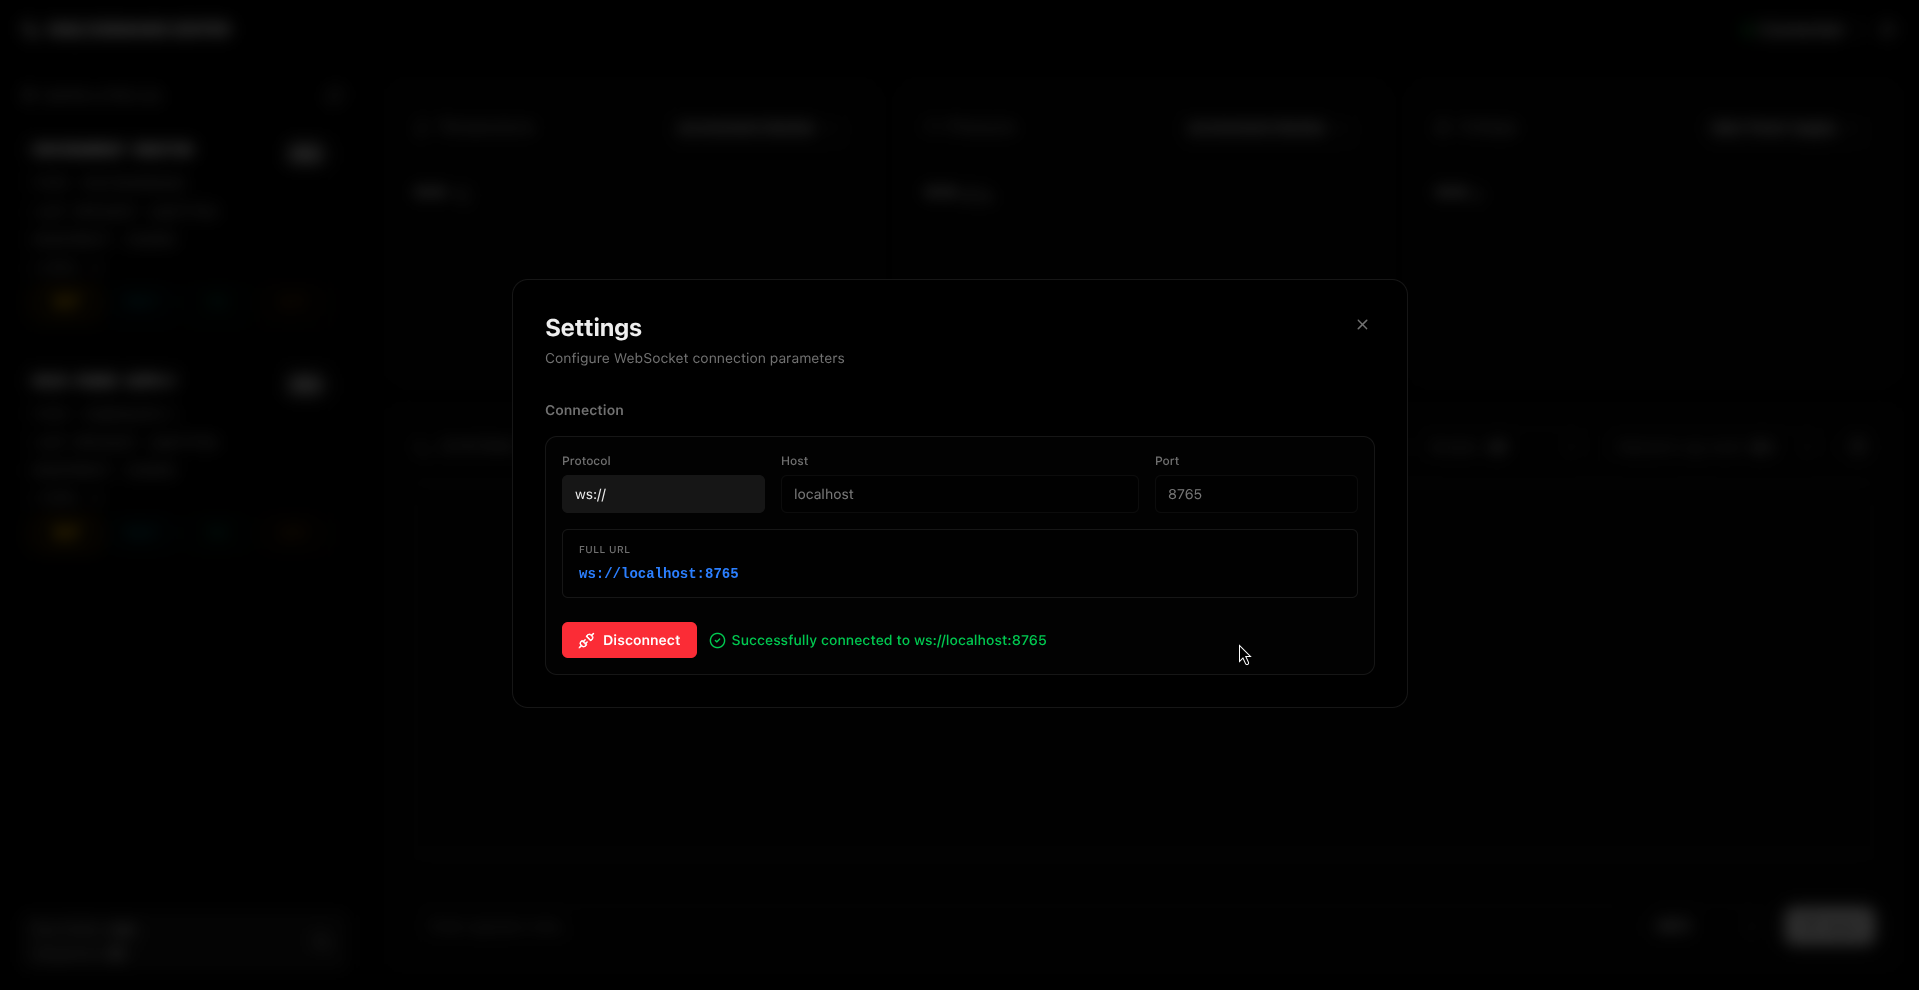
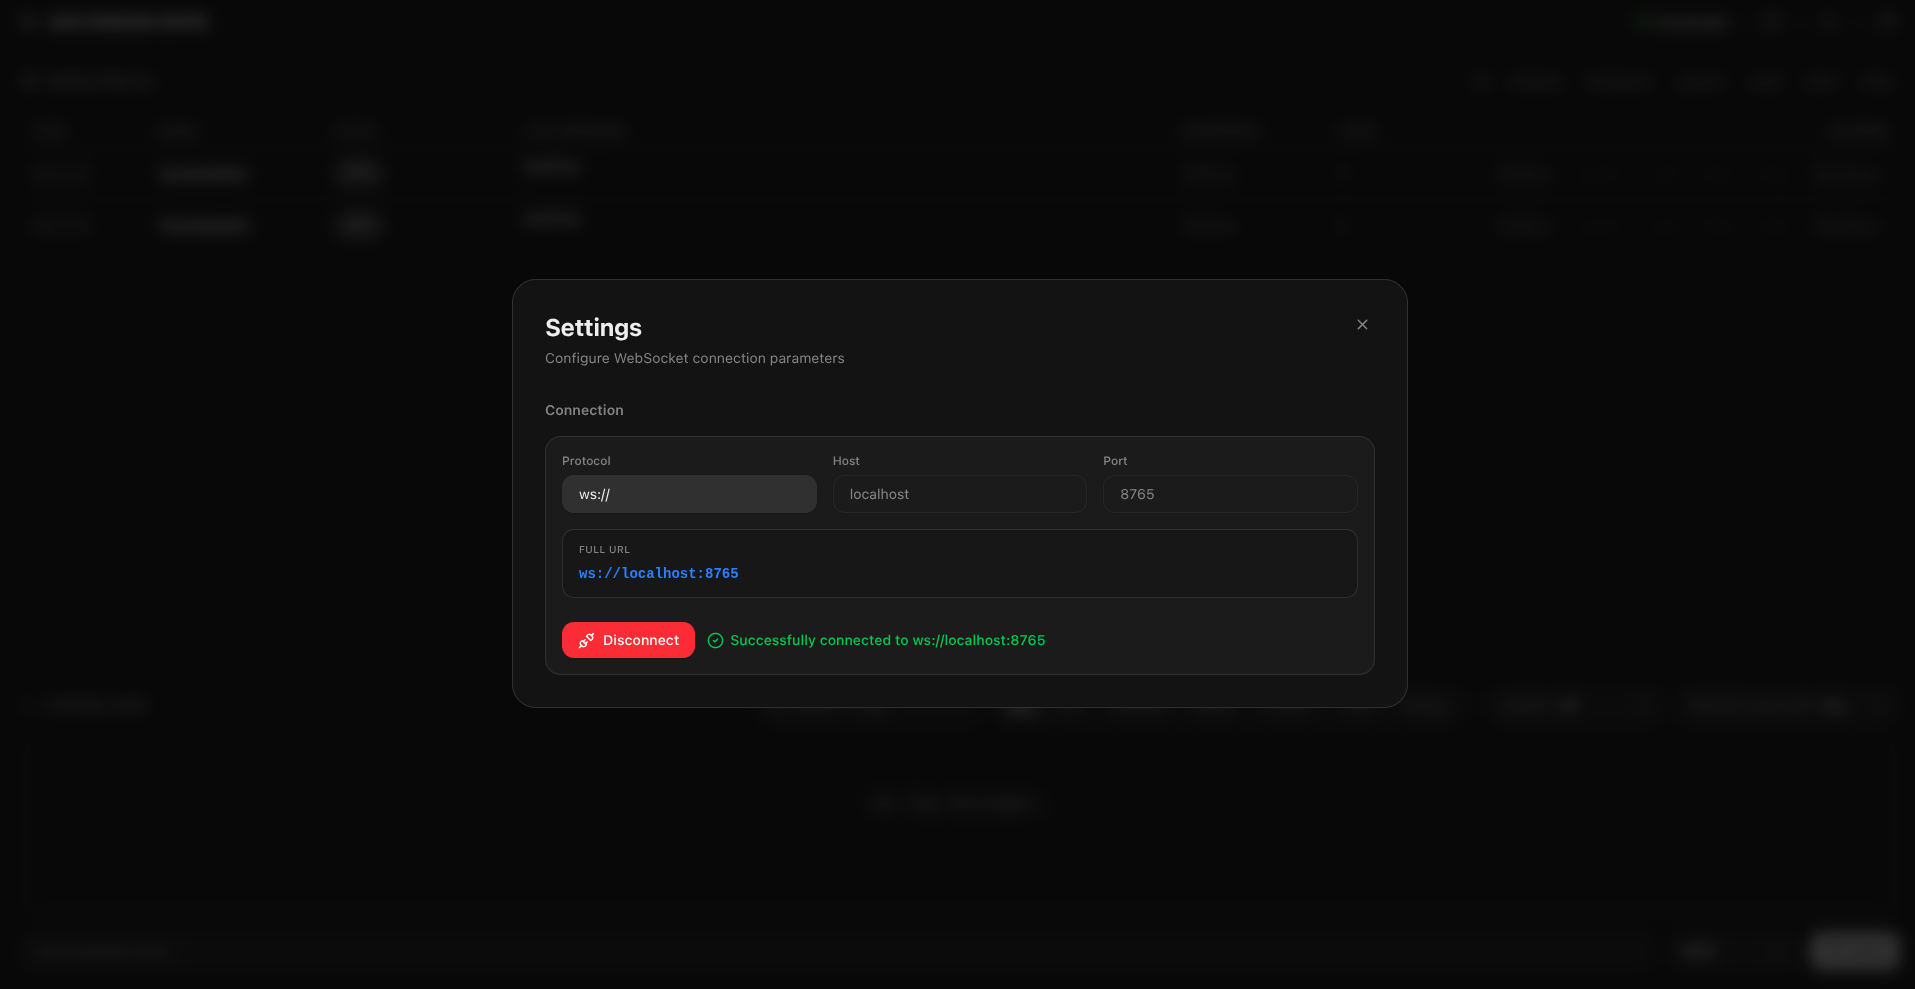
docs: update README and images

Changed region(s): [[0.2773, 0.3943, 0.7394, 0.6977], [0.9243, 0.91, 1.0, 1.0], [0.2773, 0.3033, 0.4313, 0.364]]

diff --git a/README.md b/README.md
@@ -7,14 +7,14 @@ DAQ Command Center is a web-based control interface for data acquisition (DAQ) s
 The main design idea is to help operators understand complex system states quickly and clearly at a glance. The frontend is built with Svelte 5, focusing on performance and simplicity. On the backend, a Python and WebSocket-based asynchronous server provides continuous data flow.
 
 <p align="center">
-<img src="./images/app_disconnected.png" alt="Dashboard">
+<img src="./images/empty-dashboard.png" alt="Dashboard">
 </p>
 
 ## Core Features
 
 ### Connection and Interface
 
-When the application starts, the user sees the main control panel. On the left side, there is a list of devices. On the right side, there are data graphs and system logs.
+When the application starts, the user sees the main control panel. On the top, there is a satellite table. On the bottom, there are system logs.
 
 To start data flow, the user enters host and port information from the settings menu in the top-right corner and sends a WebSocket connection request. If the connection fails, the system shows an error message.
 
@@ -28,82 +28,169 @@ If the network parameters are correct and the server is reachable, the interface
 <img src="./images/settings-popup/conn_success.png" alt="Connection Success">
 </p>
 
+### Theme
+
+The application supports both dark and light themes. The user can switch between themes using the toggle button in the header. The dark theme uses a deep, low-contrast color palette designed for extended monitoring sessions. The light theme provides a clean, high-contrast alternative for well-lit environments.
+
+Each FSM state has its own distinct color in both themes, making it easy to identify system status at a glance.
+
+<p align="center">
+<img src="./images/gif/theme.gif" alt="Dark & Light Theme">
+</p>
+
+### Customizable Layout
+
+The operator can choose between two layout modes using the split screen button in the header:
+
+- **Horizontal split (default):** Satellite table on top, system logs on the bottom.
+- **Vertical split:** Satellite table on the left, system logs on the right.
+
+This allows operators to adjust the interface based on their screen size, workflow, or personal preference.
+
+<p align="center">
+<img src="./images/gif/layout.gif" alt="Change Layout">
+</p>
+
 ### FSM (Finite State Machine) and Device Management
 
 The safety of system devices is not based on random external rules. Instead, each component follows its own Finite State Machine (FSM).
 
 After connecting to the server, the system loads the list of devices on the network and their current FSM states.
 
-<p align="center">
-<img src="./images/satellites/satellites.png" alt="Satellite List">
-</p>
-
 This structure is integrated in Python using the `statemachine` library. State transitions are strictly controlled.
 
-To manage devices safely, the required FSM steps must be followed.
+The FSM defines six main states:
+
+| State   | Description                                  |
+| ------- | -------------------------------------------- |
+| `NEW`   | Initial state when a satellite first appears |
+| `INIT`  | Initialized and ready for configuration      |
+| `ORBIT` | Configured and ready for data acquisition    |
+| `RUN`   | Actively acquiring data                      |
+| `SAFE`  | Safe mode, triggered by rule violations      |
+| `ERROR` | Error state, triggered by hardware failures  |
+
+To add realism and reflect real-world hardware behavior, six **transitional states** are introduced between main states. When a command is issued, the satellite first enters a transitional state (e.g. `INITIALIZING`, `LAUNCHING`) before reaching its target state. During this transition, a spinning indicator is displayed on the state badge and all commands are disabled until the transition completes. Each transition takes 1.5 seconds.
+
+| Transitional State | From           | To      |
+| ------------------ | -------------- | ------- |
+| `INITIALIZING`     | `NEW` / `INIT` | `INIT`  |
+| `LAUNCHING`        | `INIT`         | `ORBIT` |
+| `LANDING`          | `ORBIT`        | `INIT`  |
+| `RECONFIGURING`    | `ORBIT`        | `ORBIT` |
+| `STARTING`         | `ORBIT`        | `RUN`   |
+| `STOPPING`         | `RUN`          | `ORBIT` |
+
+Satellites in `SAFE` or `ERROR` states can be recovered back to the `INIT` state using the `Initialize` command.
 
 <p align="center">
 <img src="./images/fsm.png" alt="FSM Architecture">
 </p>
 
-For example, a device in the `INIT` state cannot directly move to the `RUN` state. It must first go to the `ORBIT` state.
+### Satellite Table
 
-Invalid transitions are automatically disabled in the interface. Operators can manage state changes directly from the UI.
+Satellites are displayed in a structured table with the following columns:
+
+| Column           | Description                              |
+| ---------------- | ---------------------------------------- |
+| **Type**         | Hardware type of the satellite           |
+| **Name**         | Unique identifier                        |
+| **State**        | Current FSM state with color-coded badge |
+| **Last Message** | Most recent message with timestamp       |
+| **Heartbeat**    | Heartbeat interval (e.g. `3000ms`)       |
+| **Lives**        | Remaining lives counter                  |
+| **Actions**      | Available command buttons                |
+
+Horizontal layout:
+
+<p align="center">
+<img src="./images/satellites/horizontal.png" alt="Satellite Table Horizontal">
+</p>
+Vertical layout:
+
+<p align="center">
+<img src="./images/satellites/vertical.png" alt="Satellite Table Vertical">
+</p>
+
+### Satellite Commands
+
+Instead of directly selecting a target state (e.g. `INIT`, `ORBIT`, `RUN`), operators issue **action commands** that describe the operation to be performed. The available commands are:
+
+| Command        | Transition                                     |
+| -------------- | ---------------------------------------------- |
+| **Initialize** | `NEW` / `SAFE` / `ERROR` → `INIT`              |
+| **Launch**     | `INIT` → `ORBIT`                               |
+| **Land**       | `ORBIT` → `INIT`                               |
+| **Start**      | `ORBIT` → `RUN`                                |
+| **Stop**       | `RUN` → `ORBIT`                                |
+| **Shutdown**   | Removes the satellite from the system entirely |
+
+Invalid commands are automatically disabled based on the satellite's current state. During transitional states, all commands are disabled.
 
 <p align="center">
 <img src="./images/gif/change_state.gif" alt="State Change">
 </p>
 
-### Real-Time Data Visualization
+#### Global Control
 
-Sensors send data only when the system is in the `RUN` state. This ensures that data flow is synchronized with system state.
-
-Incoming data is visualized using Apache ECharts with high performance.
+A set of quick action buttons is provided above the satellite table, labeled **"All:"**. These buttons send a command to every satellite simultaneously. This allows operators to initialize, launch, start, stop, land, or shut down all devices with a single click.
 
 <p align="center">
-<img src="./images/gif/graphs.gif" alt="Live Graph">
+<img src="./images/gif/global_control.gif" alt="Global Control Buttons">
 </p>
 
-Data types depend on the hardware. For example:
+#### Context Menu (Vertical Layout)
 
-- `EnviroSensor` provides temperature and pressure data
-- `PowerSupply` provides voltage values
+In vertical split mode, screen space for the table is limited. To maintain a clean layout, per-satellite command buttons are replaced with a compact context menu. Clicking the ellipsis icon (`...`) at the end of a table row opens a small popup right next to the cursor, similar to a right-click context menu on a desktop. The popup lists all available commands with the same enable/disable logic.
 
-Each graph stores a maximum of 30 data points to prevent memory issues. When the limit is reached, the oldest data is removed (FIFO) and new data is added.
-
-The data source can be changed instantly from the top-right menu.
+<p align="center">
+<img src="./images/gif/context_menu.gif" alt="Context Menu">
+</p>
 
 ### System Logs
 
-All system events, data movements, and state changes can be tracked from the log panel at the bottom-right.
+All system events, data movements, and state changes can be tracked from the log panel.
+
+Log messages are color-coded by level for quick visual scanning:
+
+| Level      | Color                   |
+| ---------- | ----------------------- |
+| `INFO`     | Blue                    |
+| `STATUS`   | Green (highlighted row) |
+| `WARNING`  | Amber (highlighted row) |
+| `CRITICAL` | Red (highlighted row)   |
+| `TRACE`    | Purple                  |
+| `DEBUG`    | Muted                   |
+
+For performance reasons, a maximum of 1000 log entries are stored on screen. When the limit is reached, the oldest entries are removed (FIFO).
 
 <p align="center">
 <img src="./images/gif/system_logs.gif" alt="System Logs">
 </p>
 
-For performance reasons, a maximum of 1000 log entries are stored on screen.
-
 This module includes:
 
-- **Client-side filtering:** Case-sensitive search with filters by log level and source
-- **Server-side filtering (Network Log Level):** Only selected log levels are sent from the server to reduce network load
-- **Interactive log generation:** Users can send log messages manually through the UI. These messages go to the server and come back to verify data integrity
+- **Interactive log generation:** Users can send log messages manually through the UI by writing an operator note and selecting a log level. These messages go to the server and come back to verify data integrity.
 
-### Application Flow
+### Filters
 
-The full system workflow, including all components working together, is summarized below.
+The log panel provides multiple filtering options to help operators focus on relevant information:
 
-The operator can control everything from a single screen.
+- **Log Level Filter (Client-side):** Instantly filter logs by level — `All`, `Info`, `Warning`, `Status`, `Critical`, `Trace`, or `Debug`.
+- **Search Filter (Client-side):** Free-text search to find specific log messages.
+- **Sender Filter (Client-side):** Filter logs by source — `All`, `OP` (operator), or any specific satellite name.
+- **Network Log Level (Server-side):** Controls which log levels the server sends to the client. This reduces network traffic by filtering at the source.
 
-<p align="center">
-<img src="./images/gif/app.gif" alt="App Flow">
-</p>
+All client-side filters apply instantly without server communication. They can be combined together for precise filtering.
 
 ## Roadmap
 
 - **Network Discovery:** Dynamically scan and add new devices to the system using the refresh button
 - **Configuration Management:** Make features like "Run Prefix" and "Sequence" functional
-- Fix bugs on UI and server sides, and improve performance
+- **Log Management:** Reintroduce the ability to clear the log screen
+- **Bug Fixes & Improvements:** Fix UI and server-side issues, and improve overall performance
+- **Log Filtering Fixes:** Resolve inconsistencies such as logs appearing under "System" without an available sender filter, and identify/fix similar issues
+- **State Handling Improvements:** Make transitions to SAFE/ERROR states more intelligent and reliable
 
 ## Usage
 
@@ -166,7 +253,7 @@ Open this address in your browser and enter WebSocket settings from the top-righ
 AI tools were used in this project according to the following principles:
 
 - **Design and Architecture:** The main architecture, FSM logic, Svelte 5 frontend, and Python WebSocket integration were designed and implemented manually
-- **Code Generation:** GitHub Copilot was used as a coding assistant, but all logic was reviewed and adapted
+- **Code Generation:** GitHub Copilot and Claude Code were used as coding assistants, but all logic was reviewed and adapted
 - **Documentation:** Large Language Models (LLMs) were used to improve the clarity and professionalism of this README
 
 ## License
